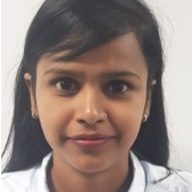
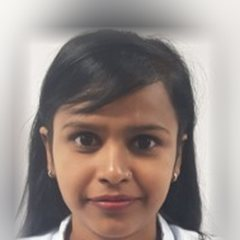
Re-crop team photos so heads are not cut off
Square crops now start at the top of each photo with soft, blurred headroom
so the round frame no longer clips hair.

diff --git a/team.html b/team.html
@@ -346,70 +346,70 @@ form.enq button:disabled{opacity:.7;cursor:wait}
     </div>
 <div class="org" role="group" aria-label="Organisation chart">
 <div class="org-top">
-<div class="leader"><img class="av av-lg" src="img/team/ole-lars-oye.jpg" alt="" width="192" height="192"><span class="pc-text"><b>Ole Lars Oye</b><span>Chief Executive Officer</span></span></div>
+<div class="leader"><img class="av av-lg" src="img/team/ole-lars-oye.jpg?v=2" alt="" width="192" height="192"><span class="pc-text"><b>Ole Lars Oye</b><span>Chief Executive Officer</span></span></div>
 <span class="org-vline" aria-hidden="true"></span>
-<div class="leader"><img class="av av-lg" src="img/team/p-prabhu.jpg" alt="" width="192" height="192"><span class="pc-text"><b>P. Prabhu</b><span>Chief Operating Officer &amp; Director</span></span></div>
+<div class="leader"><img class="av av-lg" src="img/team/p-prabhu.jpg?v=2" alt="" width="192" height="192"><span class="pc-text"><b>P. Prabhu</b><span>Chief Operating Officer &amp; Director</span></span></div>
 <span class="org-vline" aria-hidden="true"></span>
 <span class="org-hub">7 teams · 29 people</span>
 </div>
 <div class="org-depts">
 <section class="dept">
 <h3 class="dept-name">Projects</h3>
-<div class="dept-lead"><img class="av av-md" src="img/team/mathan.jpg" alt="" width="192" height="192" loading="lazy"><span class="pc-text"><b>Mathan</b><span>Senior Project Manager (PCM)</span></span></div>
+<div class="dept-lead"><img class="av av-md" src="img/team/mathan.jpg?v=2" alt="" width="192" height="192" loading="lazy"><span class="pc-text"><b>Mathan</b><span>Senior Project Manager (PCM)</span></span></div>
 <ul class="dept-members">
-<li class="member"><img class="av av-sm" src="img/team/anand.jpg" alt="" width="192" height="192" loading="lazy"><span class="pc-text"><b>Anand</b><span>Project Manager</span></span></li>
-<li class="member"><img class="av av-sm" src="img/team/seeni.jpg" alt="" width="192" height="192" loading="lazy"><span class="pc-text"><b>Seeni</b><span>Site Manager</span></span></li>
-<li class="member"><img class="av av-sm" src="img/team/mathaikutty.jpg" alt="" width="192" height="192" loading="lazy"><span class="pc-text"><b>Mathaikutty</b><span>Site Manager</span></span></li>
-<li class="member"><img class="av av-sm" src="img/team/munusamy.jpg" alt="" width="192" height="192" loading="lazy"><span class="pc-text"><b>Munusamy</b><span>Site Manager</span></span></li>
-<li class="member"><img class="av av-sm" src="img/team/sisubalan.jpg" alt="" width="192" height="192" loading="lazy"><span class="pc-text"><b>Sisubalan</b><span>Store In-charge</span></span></li>
-<li class="member"><img class="av av-sm" src="img/team/marithasan.jpg" alt="" width="192" height="192" loading="lazy"><span class="pc-text"><b>Marithasan</b><span>Logistics In-charge</span></span></li>
-<li class="member"><img class="av av-sm" src="img/team/sneha.jpg" alt="" width="192" height="192" loading="lazy"><span class="pc-text"><b>Sneha</b><span>Admin Executive</span></span></li>
+<li class="member"><img class="av av-sm" src="img/team/anand.jpg?v=2" alt="" width="192" height="192" loading="lazy"><span class="pc-text"><b>Anand</b><span>Project Manager</span></span></li>
+<li class="member"><img class="av av-sm" src="img/team/seeni.jpg?v=2" alt="" width="192" height="192" loading="lazy"><span class="pc-text"><b>Seeni</b><span>Site Manager</span></span></li>
+<li class="member"><img class="av av-sm" src="img/team/mathaikutty.jpg?v=2" alt="" width="192" height="192" loading="lazy"><span class="pc-text"><b>Mathaikutty</b><span>Site Manager</span></span></li>
+<li class="member"><img class="av av-sm" src="img/team/munusamy.jpg?v=2" alt="" width="192" height="192" loading="lazy"><span class="pc-text"><b>Munusamy</b><span>Site Manager</span></span></li>
+<li class="member"><img class="av av-sm" src="img/team/sisubalan.jpg?v=2" alt="" width="192" height="192" loading="lazy"><span class="pc-text"><b>Sisubalan</b><span>Store In-charge</span></span></li>
+<li class="member"><img class="av av-sm" src="img/team/marithasan.jpg?v=2" alt="" width="192" height="192" loading="lazy"><span class="pc-text"><b>Marithasan</b><span>Logistics In-charge</span></span></li>
+<li class="member"><img class="av av-sm" src="img/team/sneha.jpg?v=2" alt="" width="192" height="192" loading="lazy"><span class="pc-text"><b>Sneha</b><span>Admin Executive</span></span></li>
 </ul>
 </section>
 <section class="dept">
 <h3 class="dept-name">Marine &amp; Offshore</h3>
-<div class="dept-lead"><img class="av av-md" src="img/team/s-raja.jpg" alt="" width="192" height="192" loading="lazy"><span class="pc-text"><b>S. Raja</b><span>Project Manager, Marine &amp; Offshore</span></span></div>
+<div class="dept-lead"><img class="av av-md" src="img/team/s-raja.jpg?v=2" alt="" width="192" height="192" loading="lazy"><span class="pc-text"><b>S. Raja</b><span>Project Manager, Marine &amp; Offshore</span></span></div>
 <ul class="dept-members">
-<li class="member"><img class="av av-sm" src="img/team/dharmaraj.jpg" alt="" width="192" height="192" loading="lazy"><span class="pc-text"><b>Dharmaraj</b><span>Site Supervisor</span></span></li>
-<li class="member"><img class="av av-sm" src="img/team/kumaran.jpg" alt="" width="192" height="192" loading="lazy"><span class="pc-text"><b>Kumaran</b><span>Marine Engineer</span></span></li>
+<li class="member"><img class="av av-sm" src="img/team/dharmaraj.jpg?v=2" alt="" width="192" height="192" loading="lazy"><span class="pc-text"><b>Dharmaraj</b><span>Site Supervisor</span></span></li>
+<li class="member"><img class="av av-sm" src="img/team/kumaran.jpg?v=2" alt="" width="192" height="192" loading="lazy"><span class="pc-text"><b>Kumaran</b><span>Marine Engineer</span></span></li>
 </ul>
 </section>
 <section class="dept">
 <h3 class="dept-name">Rangooli Engineering</h3>
-<div class="dept-lead"><img class="av av-md" src="img/team/ilayaraja.jpg" alt="" width="192" height="192" loading="lazy"><span class="pc-text"><b>Ilayaraja</b><span>Assistant Site Manager</span></span></div>
+<div class="dept-lead"><img class="av av-md" src="img/team/ilayaraja.jpg?v=2" alt="" width="192" height="192" loading="lazy"><span class="pc-text"><b>Ilayaraja</b><span>Assistant Site Manager</span></span></div>
 <ul class="dept-members">
-<li class="member"><img class="av av-sm" src="img/team/aadithiyan.jpg" alt="" width="192" height="192" loading="lazy"><span class="pc-text"><b>Aadithiyan</b><span>Project Engineer</span></span></li>
-<li class="member"><img class="av av-sm" src="img/team/muruganantham.jpg" alt="" width="192" height="192" loading="lazy"><span class="pc-text"><b>Muruganantham</b><span>Senior Supervisor</span></span></li>
+<li class="member"><img class="av av-sm" src="img/team/aadithiyan.jpg?v=2" alt="" width="192" height="192" loading="lazy"><span class="pc-text"><b>Aadithiyan</b><span>Project Engineer</span></span></li>
+<li class="member"><img class="av av-sm" src="img/team/muruganantham.jpg?v=2" alt="" width="192" height="192" loading="lazy"><span class="pc-text"><b>Muruganantham</b><span>Senior Supervisor</span></span></li>
 </ul>
 </section>
 <section class="dept">
 <h3 class="dept-name">Malaysia</h3>
-<div class="dept-lead"><img class="av av-md" src="img/team/kumar.jpg" alt="" width="192" height="192" loading="lazy"><span class="pc-text"><b>Kumar</b><span>Operations Manager, Malaysia</span></span></div>
+<div class="dept-lead"><img class="av av-md" src="img/team/kumar.jpg?v=2" alt="" width="192" height="192" loading="lazy"><span class="pc-text"><b>Kumar</b><span>Operations Manager, Malaysia</span></span></div>
 </section>
 <section class="dept">
 <h3 class="dept-name">Procurement &amp; Estimating</h3>
-<div class="dept-lead"><img class="av av-md" src="img/team/henry.jpg" alt="" width="192" height="192" loading="lazy"><span class="pc-text"><b>Henry</b><span>Procurement Officer</span></span></div>
+<div class="dept-lead"><img class="av av-md" src="img/team/henry.jpg?v=2" alt="" width="192" height="192" loading="lazy"><span class="pc-text"><b>Henry</b><span>Procurement Officer</span></span></div>
 <ul class="dept-members">
-<li class="member"><img class="av av-sm" src="img/team/koay-bee-buan.jpg" alt="" width="192" height="192" loading="lazy"><span class="pc-text"><b>Koay Bee Buan</b><span>Procurement Executive</span></span></li>
-<li class="member"><img class="av av-sm" src="img/team/batoy.jpg" alt="" width="192" height="192" loading="lazy"><span class="pc-text"><b>Batoy</b><span>Estimation Engineer</span></span></li>
-<li class="member"><img class="av av-sm" src="img/team/lakshmi.jpg" alt="" width="192" height="192" loading="lazy"><span class="pc-text"><b>Lakshmi</b><span>Assistant Estimation Engineer</span></span></li>
+<li class="member"><img class="av av-sm" src="img/team/koay-bee-buan.jpg?v=2" alt="" width="192" height="192" loading="lazy"><span class="pc-text"><b>Koay Bee Buan</b><span>Procurement Executive</span></span></li>
+<li class="member"><img class="av av-sm" src="img/team/batoy.jpg?v=2" alt="" width="192" height="192" loading="lazy"><span class="pc-text"><b>Batoy</b><span>Estimation Engineer</span></span></li>
+<li class="member"><img class="av av-sm" src="img/team/lakshmi.jpg?v=2" alt="" width="192" height="192" loading="lazy"><span class="pc-text"><b>Lakshmi</b><span>Assistant Estimation Engineer</span></span></li>
 <li class="member"><span class="av av-sm av-initials" aria-hidden="true">D</span><span class="pc-text"><b>Doreen</b><span>Business Development Executive</span></span></li>
 </ul>
 </section>
 <section class="dept">
 <h3 class="dept-name">Finance, HR &amp; Admin</h3>
-<div class="dept-lead"><img class="av av-md" src="img/team/sally.jpg" alt="" width="192" height="192" loading="lazy"><span class="pc-text"><b>Sally</b><span>Accountant</span></span></div>
+<div class="dept-lead"><img class="av av-md" src="img/team/sally.jpg?v=2" alt="" width="192" height="192" loading="lazy"><span class="pc-text"><b>Sally</b><span>Accountant</span></span></div>
 <ul class="dept-members">
-<li class="member"><img class="av av-sm" src="img/team/azah.jpg" alt="" width="192" height="192" loading="lazy"><span class="pc-text"><b>Azah</b><span>Accounts Assistant</span></span></li>
-<li class="member"><img class="av av-sm" src="img/team/eny.jpg" alt="" width="192" height="192" loading="lazy"><span class="pc-text"><b>Eny</b><span>HR Executive</span></span></li>
-<li class="member"><img class="av av-sm" src="img/team/rathna.jpg" alt="" width="192" height="192" loading="lazy"><span class="pc-text"><b>Rathna</b><span>HR Admin Executive</span></span></li>
-<li class="member"><img class="av av-sm" src="img/team/melissa.jpg" alt="" width="192" height="192" loading="lazy"><span class="pc-text"><b>Melissa</b><span>Admin Executive</span></span></li>
-<li class="member"><img class="av av-sm" src="img/team/krishna.jpg" alt="" width="192" height="192" loading="lazy"><span class="pc-text"><b>Krishna</b><span>IT Support</span></span></li>
+<li class="member"><img class="av av-sm" src="img/team/azah.jpg?v=2" alt="" width="192" height="192" loading="lazy"><span class="pc-text"><b>Azah</b><span>Accounts Assistant</span></span></li>
+<li class="member"><img class="av av-sm" src="img/team/eny.jpg?v=2" alt="" width="192" height="192" loading="lazy"><span class="pc-text"><b>Eny</b><span>HR Executive</span></span></li>
+<li class="member"><img class="av av-sm" src="img/team/rathna.jpg?v=2" alt="" width="192" height="192" loading="lazy"><span class="pc-text"><b>Rathna</b><span>HR Admin Executive</span></span></li>
+<li class="member"><img class="av av-sm" src="img/team/melissa.jpg?v=2" alt="" width="192" height="192" loading="lazy"><span class="pc-text"><b>Melissa</b><span>Admin Executive</span></span></li>
+<li class="member"><img class="av av-sm" src="img/team/krishna.jpg?v=2" alt="" width="192" height="192" loading="lazy"><span class="pc-text"><b>Krishna</b><span>IT Support</span></span></li>
 </ul>
 </section>
 <section class="dept">
 <h3 class="dept-name">Workplace Safety &amp; Health</h3>
-<div class="dept-lead"><img class="av av-md" src="img/team/md-ismail.jpg" alt="" width="192" height="192" loading="lazy"><span class="pc-text"><b>Md Ismail</b><span>WSH Officer</span></span></div>
+<div class="dept-lead"><img class="av av-md" src="img/team/md-ismail.jpg?v=2" alt="" width="192" height="192" loading="lazy"><span class="pc-text"><b>Md Ismail</b><span>WSH Officer</span></span></div>
 </section>
 </div></div>
   </div>

diff --git a/about.html b/about.html
@@ -384,8 +384,8 @@ form.enq button:disabled{opacity:.7;cursor:wait}
       <h2 class="h2" id="mgmt-h">Leadership team</h2>
     </div>
     <div class="people" style="margin-top:0">
-      <div class="person"><img class="av av-md" src="img/team/ole-lars-oye.jpg" alt="" width="192" height="192" loading="lazy"><div><h3>Ole Lars Oye</h3><div class="role">CHIEF EXECUTIVE OFFICER</div><p>Leads strategy and business development. Joined Everstar in 2019 after five years at Beerenberg/Benarx, four of them as COO. Has opened new oil &amp; gas markets in Singapore, Poland and Korea, and has managed businesses for multinational companies.</p></div></div>
-      <div class="person"><img class="av av-md" src="img/team/p-prabhu.jpg" alt="" width="192" height="192" loading="lazy"><div><h3>Packirisamy Prabhu</h3><div class="role">CHIEF OPERATING OFFICER</div><p>Runs operations. Long experience with onshore and marine clients in Singapore and Indonesia, working with plant owners and EPCs across Southeast Asia. Former COO of a Singapore-listed company, has managed up to 500 employees and tendered and managed a single S$35 million project. Project Management Professional (PMP).</p></div></div>
+      <div class="person"><img class="av av-md" src="img/team/ole-lars-oye.jpg?v=2" alt="" width="192" height="192" loading="lazy"><div><h3>Ole Lars Oye</h3><div class="role">CHIEF EXECUTIVE OFFICER</div><p>Leads strategy and business development. Joined Everstar in 2019 after five years at Beerenberg/Benarx, four of them as COO. Has opened new oil &amp; gas markets in Singapore, Poland and Korea, and has managed businesses for multinational companies.</p></div></div>
+      <div class="person"><img class="av av-md" src="img/team/p-prabhu.jpg?v=2" alt="" width="192" height="192" loading="lazy"><div><h3>Packirisamy Prabhu</h3><div class="role">CHIEF OPERATING OFFICER</div><p>Runs operations. Long experience with onshore and marine clients in Singapore and Indonesia, working with plant owners and EPCs across Southeast Asia. Former COO of a Singapore-listed company, has managed up to 500 employees and tendered and managed a single S$35 million project. Project Management Professional (PMP).</p></div></div>
     </div>
     <a class="more" href="team.html">See the full organisation chart →</a>
   </div>

diff --git a/src/pages/about.html b/src/pages/about.html
@@ -58,8 +58,8 @@ nav: about
       <h2 class="h2" id="mgmt-h">Leadership team</h2>
     </div>
     <div class="people" style="margin-top:0">
-      <div class="person"><img class="av av-md" src="img/team/ole-lars-oye.jpg" alt="" width="192" height="192" loading="lazy"><div><h3>Ole Lars Oye</h3><div class="role">CHIEF EXECUTIVE OFFICER</div><p>Leads strategy and business development. Joined Everstar in 2019 after five years at Beerenberg/Benarx, four of them as COO. Has opened new oil &amp; gas markets in Singapore, Poland and Korea, and has managed businesses for multinational companies.</p></div></div>
-      <div class="person"><img class="av av-md" src="img/team/p-prabhu.jpg" alt="" width="192" height="192" loading="lazy"><div><h3>Packirisamy Prabhu</h3><div class="role">CHIEF OPERATING OFFICER</div><p>Runs operations. Long experience with onshore and marine clients in Singapore and Indonesia, working with plant owners and EPCs across Southeast Asia. Former COO of a Singapore-listed company, has managed up to 500 employees and tendered and managed a single S$35 million project. Project Management Professional (PMP).</p></div></div>
+      <div class="person"><img class="av av-md" src="img/team/ole-lars-oye.jpg?v=2" alt="" width="192" height="192" loading="lazy"><div><h3>Ole Lars Oye</h3><div class="role">CHIEF EXECUTIVE OFFICER</div><p>Leads strategy and business development. Joined Everstar in 2019 after five years at Beerenberg/Benarx, four of them as COO. Has opened new oil &amp; gas markets in Singapore, Poland and Korea, and has managed businesses for multinational companies.</p></div></div>
+      <div class="person"><img class="av av-md" src="img/team/p-prabhu.jpg?v=2" alt="" width="192" height="192" loading="lazy"><div><h3>Packirisamy Prabhu</h3><div class="role">CHIEF OPERATING OFFICER</div><p>Runs operations. Long experience with onshore and marine clients in Singapore and Indonesia, working with plant owners and EPCs across Southeast Asia. Former COO of a Singapore-listed company, has managed up to 500 employees and tendered and managed a single S$35 million project. Project Management Professional (PMP).</p></div></div>
     </div>
     <a class="more" href="team.html">See the full organisation chart →</a>
   </div>

diff --git a/build.py b/build.py
@@ -36,7 +36,7 @@ def initials(name):
 
 def avatar(p, size):
     if p.get("photo"):
-        return (f'<img class="av av-{size}" src="img/team/{escape(p["photo"])}.jpg" '
+        return (f'<img class="av av-{size}" src="img/team/{escape(p["photo"])}.jpg?v=2" '
                 f'alt="" width="192" height="192"' + ('' if size == 'lg' else ' loading="lazy"') + '>')
     return f'<span class="av av-{size} av-initials" aria-hidden="true">{escape(initials(p["name"]))}</span>'
 
